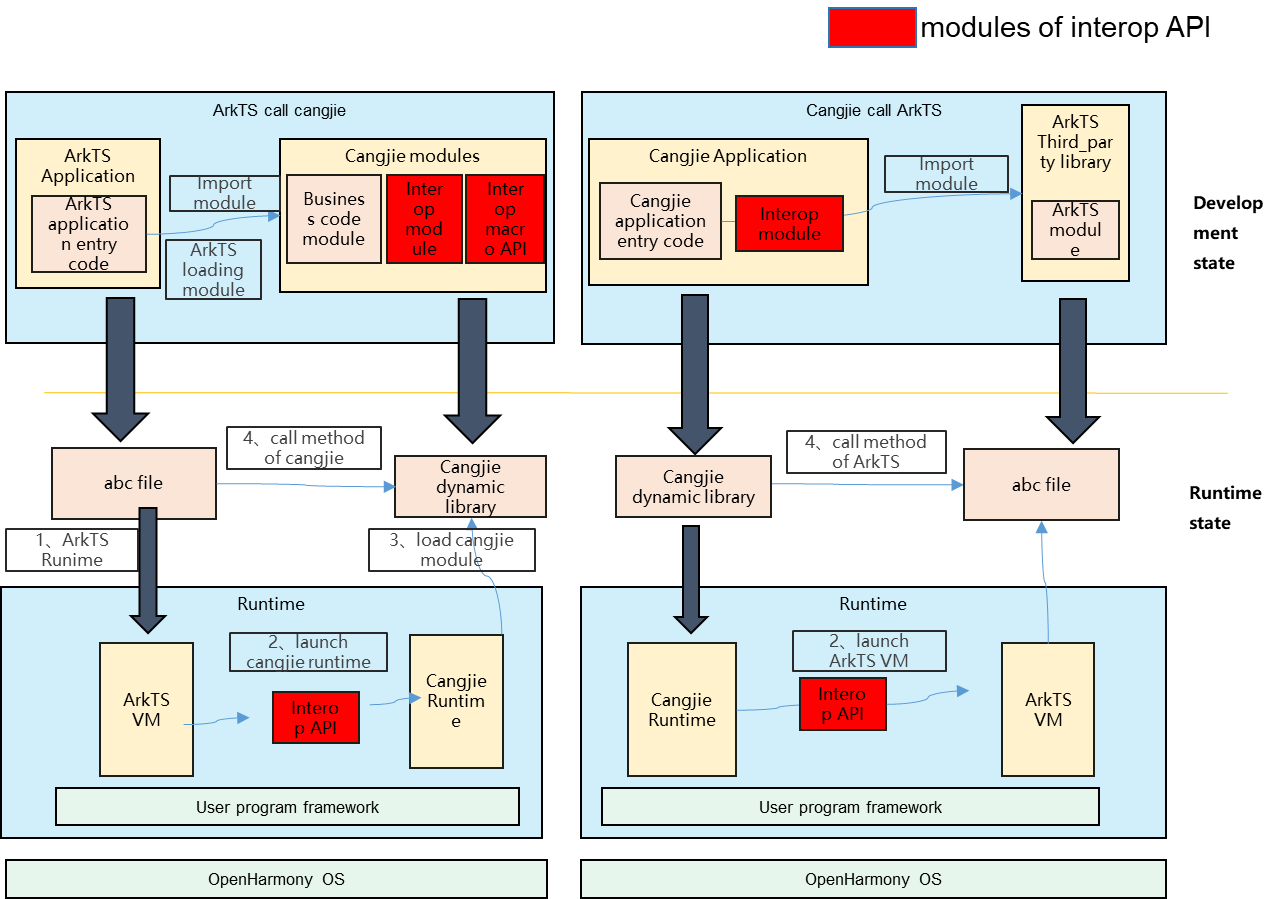
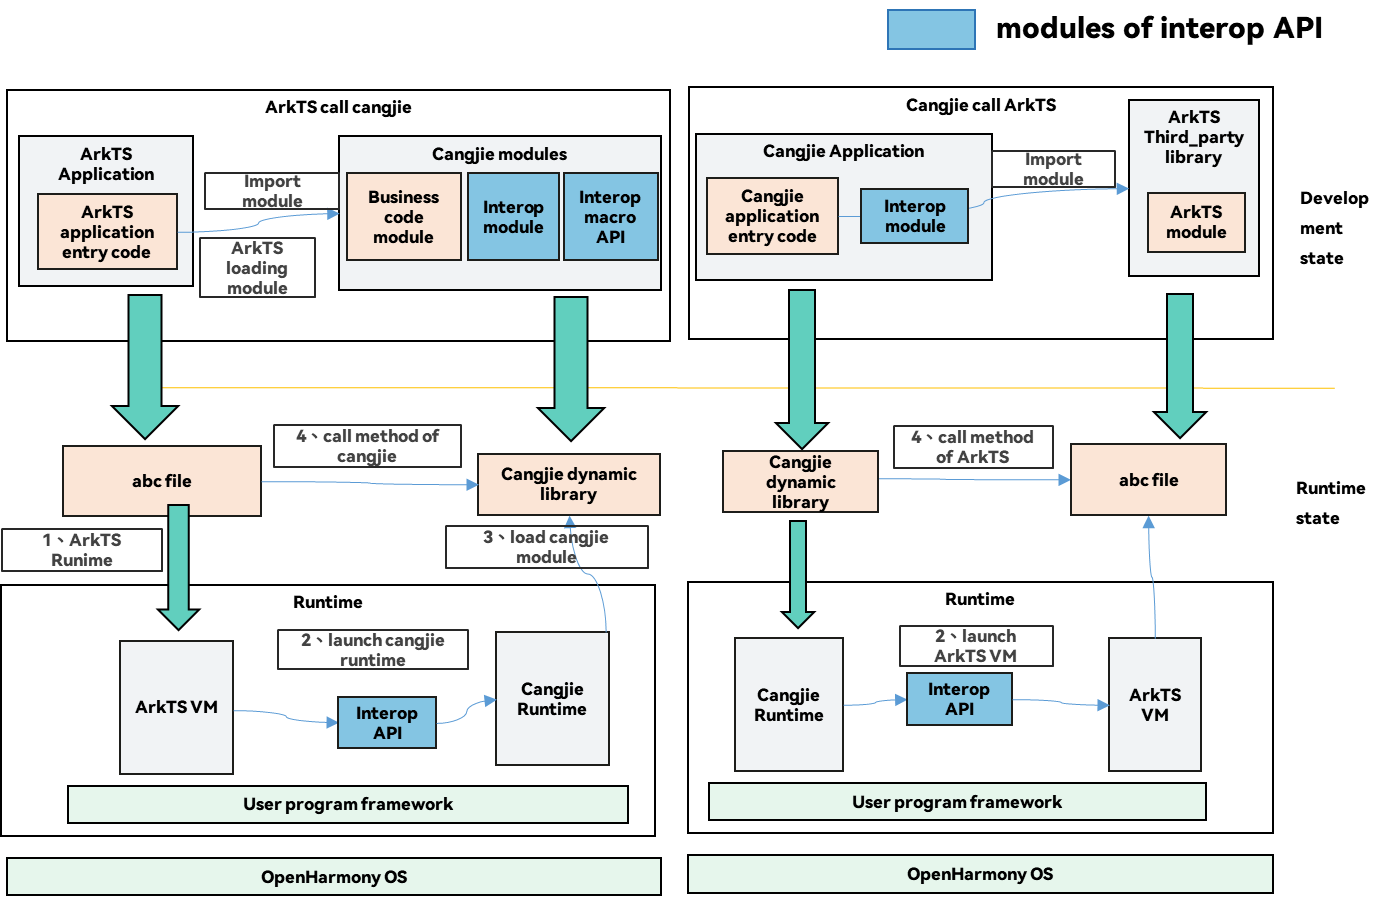
fixed doc

diff --git a/README_zh.md b/README_zh.md
@@ -21,6 +21,34 @@
 └── LICENSE
 ```
 
+## 约束
+
+- 当前开放的安全基础能力仓颉接口仅支持standard设备。
+
+## 构建指导
+
+1. 初始化
+
+    ```text
+    repo init -u https://gitcode.com/openharmony-sig/manifest.git -b master -m cangjie_oh.xml --no-repo-verify
+    ```
+
+2. 预下载
+
+    ```text
+    bash build/prebuilts_download.sh
+    ```
+
+3. 构建
+
+    ```text
+    // rom构建
+    ./build.sh --product-name rk3568 -ccache --target-cpu=arm64
+
+    //oh-sdk构建：
+    ./build.sh --product-name ohos-sdk --ccache --build-target out/sdk/gen/build/ohos/sdk:cangjie
+    ```
+
 ## 使用场景
 
 包含仓颉- ArkTS 互操作库，用于仓颉- ArkTS 互操作。json 库/ APILevel / cffi 库为基础功能库，提供给仓颉 api /仓颉 ui 等子系统等公共能力.
@@ -38,6 +66,14 @@
 - JSCallInfo: 用于表示当发生来自于 ArkTS 互操作调用时 调用的参数集合；
 
 同时针对互操作带来的开发复杂度，仓颉提供声明式互操作宏 ark_interop_macro，使开发者可以使用宏“@Interop[ArkTS]”标注仓颉代码中需要导出给 ArkTS 使用的函数或类型，在编译阶段自动生成互操作“胶水层”代码及 ArkTS 接口声明，减少开发者手写互操作代码的复杂度。
+
+互操作开发指南请参见[互操作开发指南](https://gitcode.com/openharmony-sig/arkcompiler_cangjie_ark_interop/blob/master/doc/User_Manual/source_zh_cn/FFI/cangjie-arkts/cangjie_arkts_overview.md)。
+
+互操作 API 指导请参见[互操作 API 指导](https://gitcode.com/openharmony-sig/arkcompiler_cangjie_ark_interop/blob/master/doc/API_Reference/source_zh_cn/arkinterop/cj-apis-ark_interop.md)
+
+## 参与贡献
+
+欢迎广大开发者贡献代码、文档等，具体的贡献流程和方式请参见[参与贡献](https://gitcode.com/openharmony/docs/blob/master/zh-cn/contribute/%E5%8F%82%E4%B8%8E%E8%B4%A1%E7%8C%AE.md)。
 
 ## 相关仓
 
